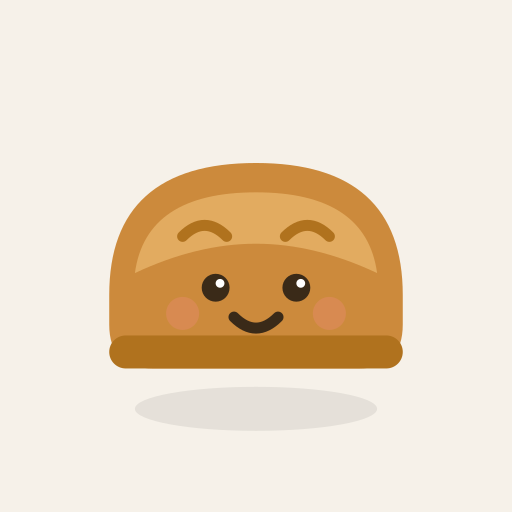
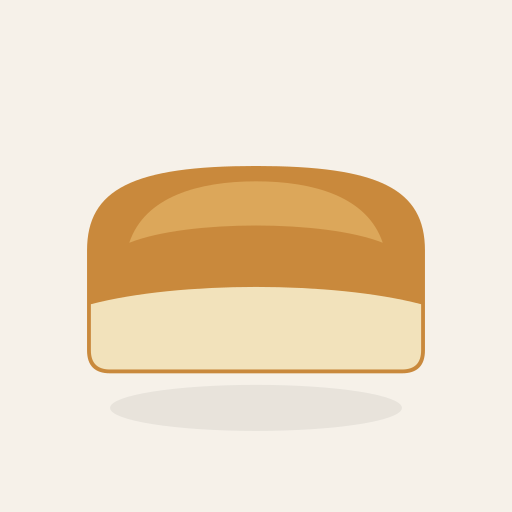
design: 로고를 식빵으로 변경 (얼굴 제거)
- BreadLogo: 둥근 얼굴빵 → 사각 식빵(크러스트+속살), 얼굴 없음
- 파비콘 / PWA 아이콘(192·512) 식빵으로 재생성

Changed region(s): [[0.1562, 0.3125, 0.8438, 0.75]]

diff --git a/src/BreadLogo.jsx b/src/BreadLogo.jsx
@@ -1,32 +1,17 @@
-// 귀여운 빵 로고 (스플래시 / 로그인 화면 공용)
+// 식빵 로고 (스플래시 / 로그인 화면 / 파비콘 / 앱 아이콘 공용)
 export default function BreadLogo({ size = 120 }) {
   return (
     <svg width={size} height={size} viewBox="0 0 120 120" xmlns="http://www.w3.org/2000/svg"
-      role="img" aria-label="빵">
+      role="img" aria-label="식빵">
       {/* 바닥 그림자 */}
-      <ellipse cx="60" cy="103" rx="33" ry="6" fill="#00000012" />
-
-      {/* 빵 몸통 */}
-      <path d="M20 72 Q20 36 60 36 Q100 36 100 72 L100 80 Q100 92 88 92 L32 92 Q20 92 20 80 Z"
-        fill="#CC8A3C" />
-      {/* 부드러운 윗면 하이라이트 */}
-      <path d="M27 66 Q30 44 60 44 Q90 44 93 66 Q76 58 60 58 Q44 58 27 66 Z" fill="#E2AB60" />
-      {/* 칼집(스코어) */}
-      <path d="M40 56 Q46 50 52 56" stroke="#B0721E" strokeWidth="3" fill="none" strokeLinecap="round" />
-      <path d="M68 56 Q74 50 80 56" stroke="#B0721E" strokeWidth="3" fill="none" strokeLinecap="round" />
-      {/* 아래 크러스트 */}
-      <rect x="20" y="83" width="80" height="9" rx="4.5" fill="#B0721E" />
-
-      {/* 볼터치 */}
-      <circle cx="40" cy="77" r="4.5" fill="#E68A6A" opacity="0.45" />
-      <circle cx="80" cy="77" r="4.5" fill="#E68A6A" opacity="0.45" />
-      {/* 눈 */}
-      <circle cx="49" cy="70" r="3.8" fill="#3A2A18" />
-      <circle cx="71" cy="70" r="3.8" fill="#3A2A18" />
-      <circle cx="50.2" cy="68.8" r="1.2" fill="#fff" />
-      <circle cx="72.2" cy="68.8" r="1.2" fill="#fff" />
-      {/* 입 */}
-      <path d="M54 78 Q60 84 66 78" stroke="#3A2A18" strokeWidth="3" fill="none" strokeLinecap="round" />
+      <ellipse cx="60" cy="101" rx="38" ry="6" fill="#0000000f" />
+      {/* 식빵 전체(크러스트): 사각 몸통 + 부드러운 윗면 */}
+      <path d="M16 86 L16 60 C16 44 28 38 60 38 C92 38 104 44 104 60 L104 86 Q104 92 98 92 L22 92 Q16 92 16 86 Z"
+        fill="#C9893C" />
+      {/* 아래 속살(밝은 부분) */}
+      <path d="M17 74 C40 68 80 68 103 74 L103 86 Q103 91 98 91 L22 91 Q17 91 17 86 Z" fill="#F2E2BB" />
+      {/* 윗면 하이라이트 */}
+      <path d="M27 58 C31 46 45 42 60 42 C75 42 89 46 93 58 C78 52 42 52 27 58 Z" fill="#DCA75A" />
     </svg>
   );
 }